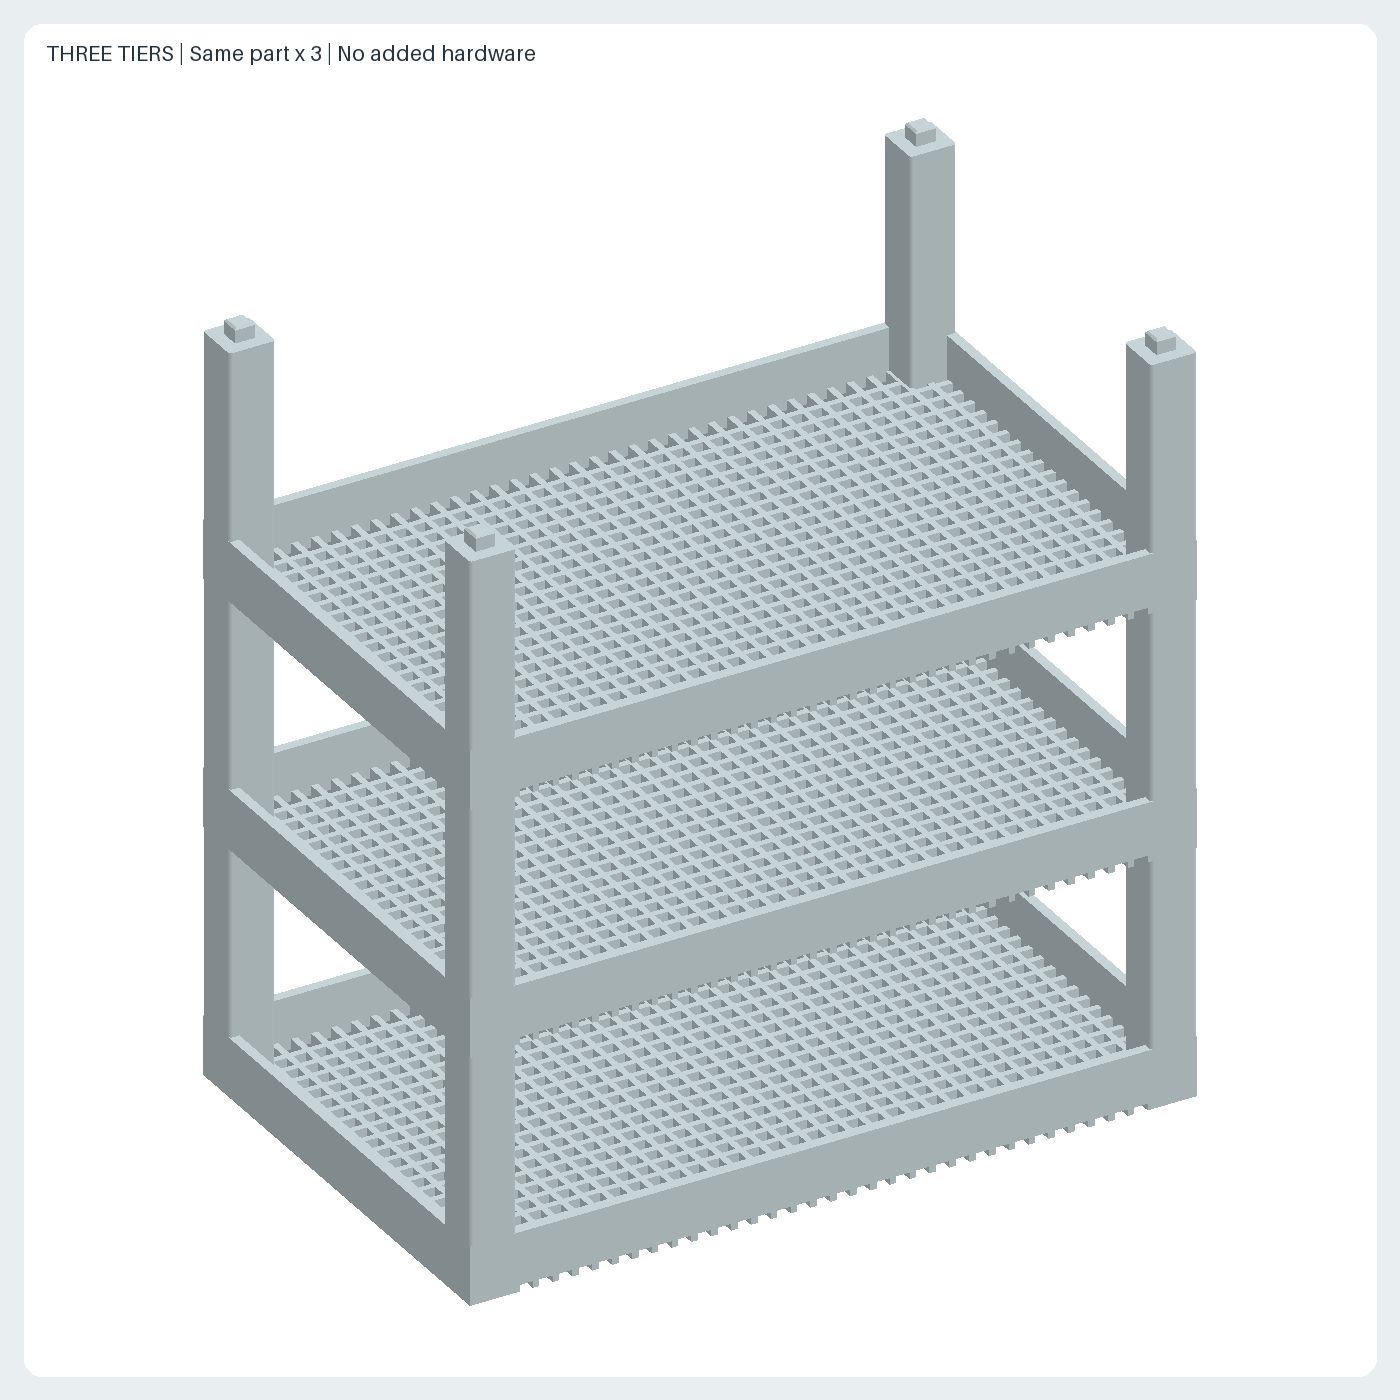
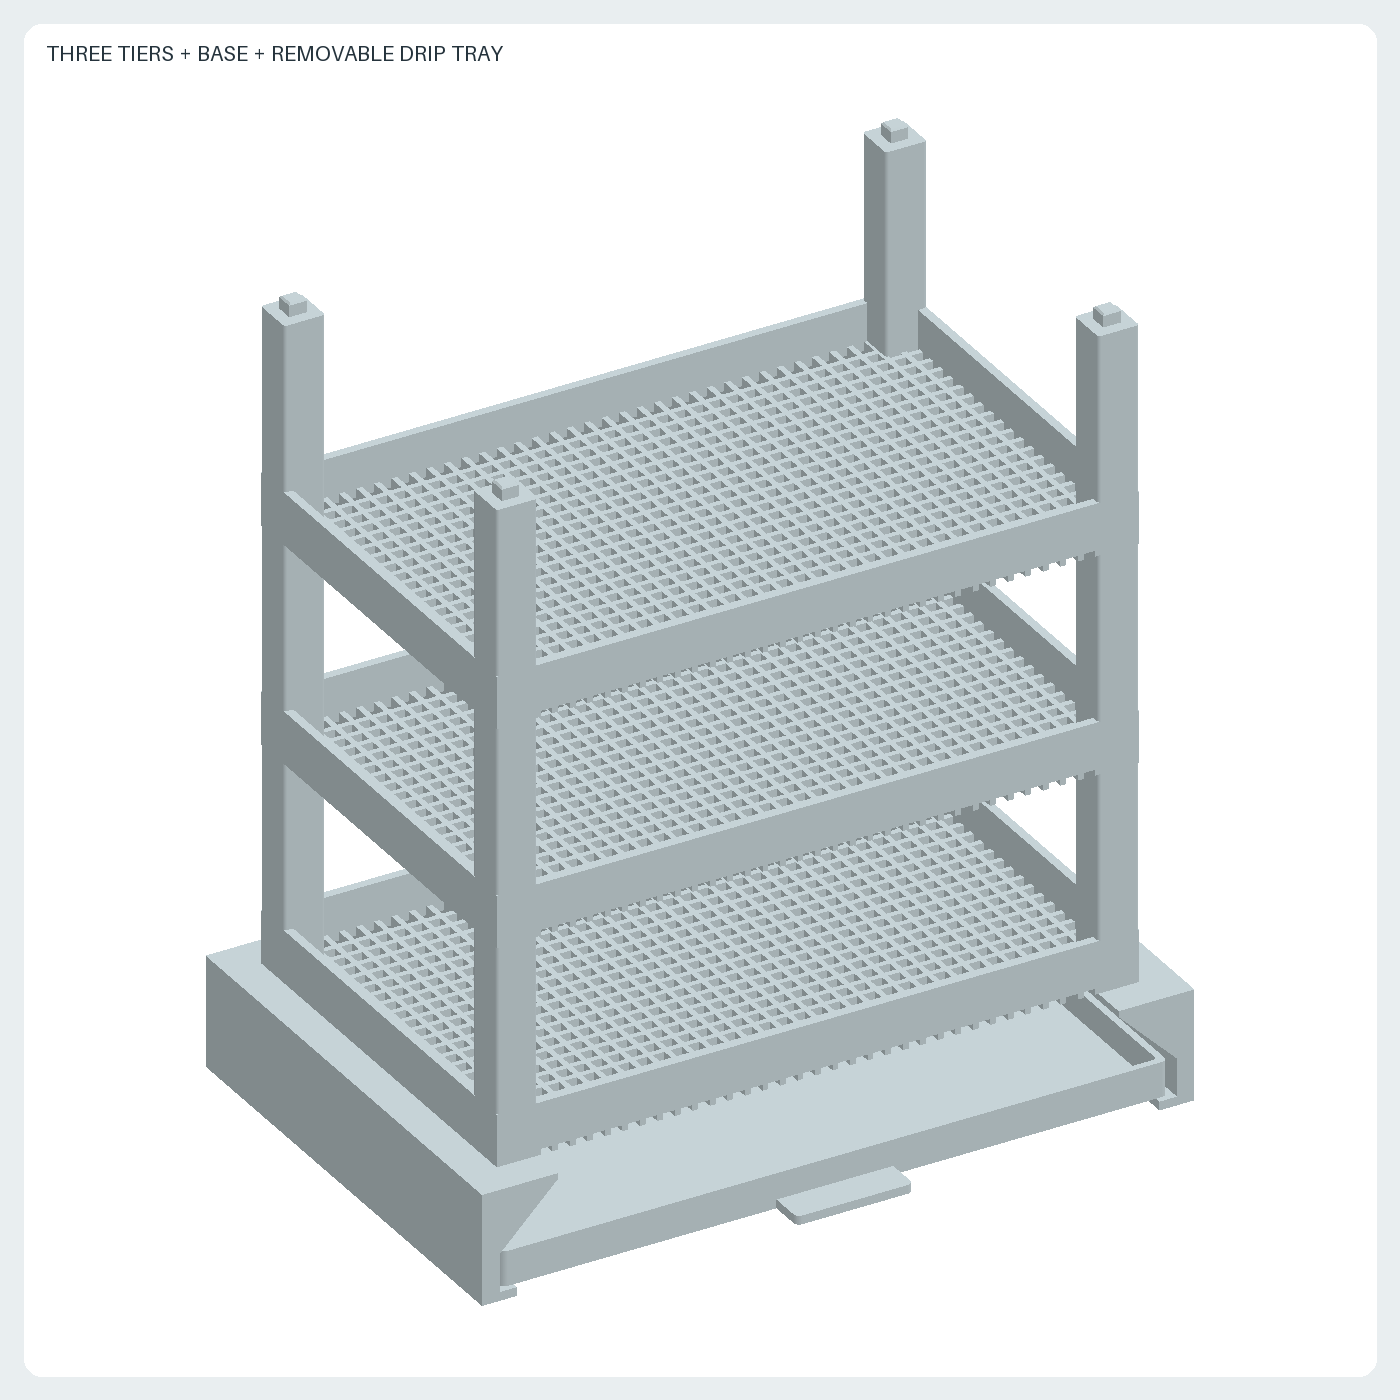
feat: add raised base and removable drip tray

Changed region(s): [[0.1229, 0.0614, 0.86, 0.9521], [0.1229, 0.0307, 0.3686, 0.0614]]

diff --git a/chili-drying-rack/generate.py b/chili-drying-rack/generate.py
@@ -20,6 +20,9 @@ PEG_HEIGHT = 4.5
 SOCKET_WIDTH = 6.8
 SOCKET_DEPTH = 5.0
 POSTS = [(x, y) for x in (-103.0, 103.0) for y in (-63.0, 63.0)]
+BASE_HEIGHT = 38.0
+TRAY_Z = 3.0
+TRAY_Y = -2.0
 
 
 def box(x, y, z, length, width, height):
@@ -96,10 +99,75 @@ def normalize_stl(path):
     path.write_bytes(data)
 
 
+def make_base():
+    # The 45-degree underside grows inward only above the drawer, so the
+    # basket support needs no bridge across the full drawer width.
+    right = (cq.Workplane("XZ", origin=(0, 82, 0))
+             .polyline([(116, 0), (122, 0), (122, 38), (96, 38),
+                        (96, 36), (116, 16)]).close().extrude(164).val())
+    parts = [right, right.mirror("YZ"), box(0, 79, 0, 244, 6, 8)]
+    parts += [box(x, 0, 0, 6, 164, TRAY_Z) for x in (-113, 113)]
+    for x, y in POSTS:
+        parts.append((cq.Workplane("XY", origin=(x, y, BASE_HEIGHT))
+                      .box(PEG_WIDTH, PEG_WIDTH, PEG_HEIGHT,
+                           centered=(True, True, False))
+                      .faces(">Z").edges().chamfer(0.6).val())
+        )
+    return parts[0].fuse(*parts[1:]).clean()
+
+
+def make_tray():
+    outer = (cq.Workplane("XY").box(228, 156, 12, centered=(True, True, False))
+             .edges("|Z").fillet(2.0).val())
+    cavity = (cq.Workplane("XY", origin=(0, 0, 2.4))
+              .box(223.2, 151.2, 12, centered=(True, True, False))
+              .edges("|Z").fillet(1.0).val())
+    grip = (cq.Workplane("XY", origin=(0, -83, 0))
+            .box(40, 14, 3, centered=(True, True, False))
+            .edges("|Z").fillet(2.0).val())
+    return outer.cut(cavity).fuse(grip).clean()
+
+
+def validate_accessories(rack, base, tray):
+    for name, shape, expected in (
+        ("base", base, (244, 164, 42.5)),
+        ("tray", tray, (228, 168, 12)),
+    ):
+        if not shape.isValid() or len(shape.Solids()) != 1:
+            raise ValueError(f"{name} must be one valid solid")
+        bounds = shape.BoundingBox()
+        for actual, target in zip((bounds.xlen, bounds.ylen, bounds.zlen), expected):
+            if abs(actual - target) > 1e-5:
+                raise ValueError(f"{name}: unexpected dimensions")
+    mounted_rack = rack.translate((0, 0, BASE_HEIGHT))
+    mounted_tray = tray.translate((0, TRAY_Y, TRAY_Z))
+    if base.intersect(mounted_rack).Volume() > 1e-6:
+        raise ValueError("Basket does not fit base")
+    # A continuous swept bounding envelope verifies the whole withdrawal path,
+    # including the handle, rather than only a few sample drawer positions.
+    bounds = mounted_tray.BoundingBox()
+    travel = 180.0
+    swept = box((bounds.xmin + bounds.xmax) / 2,
+                (bounds.ymin + bounds.ymax - travel) / 2, bounds.zmin,
+                bounds.xlen, bounds.ylen + travel, bounds.zlen)
+    for obstacle in (base, mounted_rack):
+        if obstacle.intersect(swept).Volume() > 1e-6:
+            raise ValueError("Drawer withdrawal path is obstructed")
+    # The water-holding opening covers the basket's entire vertical footprint.
+    if 223.2 / 2 < LENGTH / 2 or 151.2 / 2 - abs(TRAY_Y) < WIDTH / 2:
+        raise ValueError("Drip tray does not cover basket footprint")
+    if not tray.isInside(cq.Vector(0, 0, 1)) or tray.isInside(cq.Vector(0, 0, 4)):
+        raise ValueError("Tray floor/cavity is invalid")
+
+
 if __name__ == "__main__":
     model = make_rack()
     validate(model)
-    output = Path(__file__).with_name("rack.stl")
-    cq.exporters.export(model, str(output), tolerance=0.08, angularTolerance=0.2)
-    normalize_stl(output)
-    print(f"Basket: {model.Volume():.1f} mm^3; valid solid; stack/feature checks passed")
+    base, tray = make_base(), make_tray()
+    validate_accessories(model, base, tray)
+    for name, shape in (("rack", model), ("base", base), ("drip-tray", tray)):
+        output = Path(__file__).with_name(f"{name}.stl")
+        cq.exporters.export(shape, str(output), tolerance=0.08, angularTolerance=0.2)
+        normalize_stl(output)
+        print(f"{name}: {shape.Volume():.1f} mm^3; valid single solid")
+    print("Stack, base fit, drip coverage and continuous drawer travel checks passed")

diff --git a/chili-drying-rack/render.py b/chili-drying-rack/render.py
@@ -6,7 +6,7 @@ from pathlib import Path
 import numpy as np
 from PIL import Image, ImageDraw
 
-from generate import STACK_PITCH
+from generate import BASE_HEIGHT, STACK_PITCH, TRAY_Y, TRAY_Z
 
 
 DIRECTORY = Path(__file__).resolve().parent
@@ -44,12 +44,45 @@ def main():
                        "STACKABLE CHILI BASKET | One printed part", padding=65)
     preview.save(DIRECTORY / "preview.png", optimize=True)
     assembly = Image.new("RGB", (1400, 1400), "#e9eef0")
-    stacked = np.concatenate([vertices + np.array([0, 0, STACK_PITCH * i])
-                              for i in range(3)])
-    renderer.draw_view(assembly, stacked, np.tile(normals, (3, 1)),
+    base_v, base_n = renderer.read_binary_stl(DIRECTORY / "base.stl")
+    tray_v, tray_n = renderer.read_binary_stl(DIRECTORY / "drip-tray.stl")
+    stacked = np.concatenate(
+        [vertices + np.array([0, 0, BASE_HEIGHT + STACK_PITCH * i]) for i in range(3)]
+        + [base_v, tray_v + np.array([0, TRAY_Y, TRAY_Z])])
+    all_normals = np.concatenate([np.tile(normals, (3, 1)), base_n, tray_n])
+    renderer.draw_view(assembly, stacked, all_normals,
                        (24, 24, 1352, 1352), u, v, depth,
-                       "THREE TIERS | Same part x 3 | No added hardware", padding=70)
+                       "THREE TIERS + BASE + REMOVABLE DRIP TRAY", padding=70)
     assembly.save(DIRECTORY / "assembly.png", optimize=True)
+    drawer = Image.new("RGB", (1400, 1100), "#e9eef0")
+    pulled = np.concatenate([vertices + np.array([0, 0, BASE_HEIGHT]), base_v,
+                             tray_v + np.array([0, TRAY_Y - 85, TRAY_Z])])
+    renderer.draw_view(drawer, pulled, np.concatenate([normals, base_n, tray_n]),
+                       (24, 24, 1352, 1052), u, v, depth,
+                       "DRIP TRAY | Pull forward to empty | 23 mm air gap", padding=70)
+    drawer.save(DIRECTORY / "drawer.png", optimize=True)
+    accessory = Image.new("RGB", (1600, 1180), "#e9eef0")
+    for mesh, face_normals, region, u2, v2, d2, label in (
+        (base_v, base_n, (24, 24, 764, 480), (1, 0, 0), (0, 1, 0), (0, 0, 1),
+         "BASE TOP | 244 x 164 mm"),
+        (base_v, base_n, (24, 528, 764, 300), (1, 0, 0), (0, 0, 1), (0, -1, 0),
+         "BASE FRONT | Height 42.5 mm"),
+        (tray_v, tray_n, (812, 24, 764, 480), (1, 0, 0), (0, 1, 0), (0, 0, 1),
+         "TRAY TOP | 228 x 168 mm incl. grip"),
+        (tray_v, tray_n, (812, 528, 764, 300), (0, 1, 0), (0, 0, 1), (1, 0, 0),
+         "TRAY END | Height 12 mm"),
+    ):
+        renderer.draw_view(accessory, mesh, face_normals, region, u2, v2, d2, label)
+    draw = ImageDraw.Draw(accessory)
+    for index, line in enumerate((
+        "Base: basket seat Z=38 | Tray rails Z=3 | Inward supports: 45 degrees",
+        "Tray body: 228 x 156 x 12 mm | Floor / walls: 2.4 mm | No drain holes",
+        "Installed tray center Y=-2 | Basket bottom to tray rim: 23 mm",
+        "3 tiers with base: 267.5 mm | 4 tiers with base: 342.5 mm",
+        "Fit/withdrawal checked in CAD. Printed watertightness and load capacity untested.",
+    )):
+        draw.text((40, 868 + index * 48), line, fill="#25333c", font=renderer.font(23))
+    accessory.save(DIRECTORY / "accessories.png", optimize=True)
 
 
 if __name__ == "__main__":

diff --git a/scripts/generate_all.py b/scripts/generate_all.py
@@ -10,7 +10,8 @@ import sys
 ROOT = Path(__file__).resolve().parents[1]
 MODELS = {
     "mi-vacuum-cleaner-mini": ("holder.stl", "views.png", "preview.png"),
-    "chili-drying-rack": ("rack.stl", "views.png", "preview.png", "assembly.png"),
+    "chili-drying-rack": ("rack.stl", "base.stl", "drip-tray.stl", "views.png",
+                         "preview.png", "assembly.png", "drawer.png", "accessories.png"),
 }
 OUTPUTS = [ROOT / model / name for model, names in MODELS.items() for name in names]
 

diff --git a/chili-drying-rack/README.md b/chili-drying-rack/README.md
@@ -2,18 +2,21 @@
 
 受けかご・脚を兼ねる底面リブ・四隅の支柱・連結用の突起と穴を、一つの
 印刷部品にまとめています。同じ `rack.stl` を必要数印刷し、積み重ねて使います。
-紐、ネジ、市販クリップ、別体の連結部品は不要です。
+最下段には `base.stl` の台座と、前から引き出せる `drip-tray.stl` の水受けを
+各1個追加します。すべて印刷部品で、紐・ネジ・市販クリップは不要です。
 
 ![3段の組立状態](assembly.png)
 ![単体の斜視図](preview.png)
 ![寸法入り三面図](views.png)
+![水受けを引き出した状態](drawer.png)
+![台座と水受けの寸法図](accessories.png)
 
 ## 仕様・構成
 
 | 項目 | 設計値 |
 | --- | --- |
 | 単体外形 | 220 × 140 × 79.5mm |
-| 3段 / 4段の高さ | 229.5mm / 304.5mm |
+| 3段 / 4段の高さ | 台座込み267.5mm / 342.5mm（かごのみ229.5mm / 304.5mm） |
 | 積み重ねピッチ | 75mm |
 | 目安容量 | 長さ100mm以下・幅約20mm以下の実を、1段に約8本 |
 | 段数と本数 | 3段で約24本、4段で約32本。重なり具合に合わせて減らす |
@@ -30,6 +33,36 @@
 実を一層に並べる方式です。受けかごが乾燥面を兼ね、個別の吊り下げ保持は
 ありません。網目より細い実や破片・種までは保持できません。
 容量は実測ではなく配置の目安です。実同士が触れないように並べてください。
+
+## 引き出し式の水受け
+
+| 項目 | 設計値 |
+| --- | --- |
+| 台座 | 244 × 164 × 42.5mm（上の位置決め突起を含む） |
+| かごの支持高さ | 床面から38mm |
+| トレー本体 | 228 × 156 × 12mm |
+| トレー外形 | 取っ手込み228 × 168 × 12mm |
+| トレーの底・壁 | 厚さ2.4mm、排水穴なし |
+| トレー内側開口 | 223.2 × 151.2mm、角R1mm |
+| トレー支持高さ | 床面から3mm |
+| 通風空間 | トレー縁の上端からかご底面まで23mm |
+| 全体の設置範囲 | 幅244 × 奥行174mm（取っ手を含む） |
+
+トレーを台座の左右の下側レールに載せ、奥の壁に当たるまで差し込みます。
+かごを台座上の四つの突起に合わせて載せ、その上に残りのかごを積みます。
+トレーだけを前へ引き出せるので、かごを動かさずに水を捨てられます。
+水をこぼさないよう水平に引き出してください。前方には約180mmの取り出し空間が必要です。
+
+台座は底を下に、トレーは開口を上にして印刷します。台座の内側の支持部は
+45度の斜面で張り出す形状で、全幅を渡すブリッジはありません。
+トレーは0.2mm積層なら底面12層相当です。水受けのため、底面が全層ソリッドに
+なるよう上下層数を各6層以上にし、スライサーで確認してください。
+トレー本体は底から印刷でき、サポート不要を想定しています。
+
+印刷品の水密性は保証していません。使用前にシンクなどで少量の水を入れ、
+底や壁から漏れないことを確認してください。漏れる場合は水受けとして使用せず、
+印刷条件を見直してください。溜まった水はこまめに捨て、トレーを乾かします。
+唐辛子は干す前に表面の水分を拭き取り、トレーに水を溜め続けない使い方とします。
 
 ## 印刷と組み立て
 
@@ -63,9 +96,12 @@
 ## ファイルと再生成
 
 - `rack.stl`: 置き型かご単体。旧版の紐吊りラックを置き換えています。
+- `base.stl`: かごを38mm持ち上げ、水受けのレールを備える台座。1個使用。
+- `drip-tray.stl`: 水受けトレー。1個使用。
 - `generate.py`: CadQueryモデル、形状・積み重ね干渉の検査。
 - `render.py`: 実際のSTLから三面図・単体斜視図・3段組立図を生成。
-- `views.png`, `preview.png`, `assembly.png`: 図面とレンダリング。
+- `views.png`, `preview.png`, `assembly.png`: かごの図面と台座付き組立図。
+- `drawer.png`, `accessories.png`: 引き出し状態と台座・水受けの寸法図。
 
 リポジトリ直下で、ルートREADMEに記載した固定環境を使います。
 
@@ -76,14 +112,16 @@ nix develop --command .venv/bin/python scripts/generate_all.py --check
 
 生成時に単一ソリッド、外形寸法、代表位置の網目と通風経路、支柱の突起と
 受け穴、2段を積み重ねた際の体積干渉がないことを検査します。
+台座・トレーも単一ソリッドと外形を検査し、台座とかごの接続、水受けによる
+かご投影範囲の包含、トレー引き出し全経路の干渉を検査します。
 STLは計算誤差の微小な揺れを小数6桁に正規化し、全PNGとともに再生成一致を
-CIで検査します。実機印刷、接続部の公差、荷重、転倒、屋外耐久は未検証です。
+CIで検査します。実機印刷、接続部の公差、荷重、転倒、水密性、屋外耐久は未検証です。
 許容荷重は未設定です。
 
 ## 設計の出所・ライセンス
 
 2026-10-02の利用者指定（PLA、20〜30本、複数印刷可、実の長さ100mm以下、
-受けかご、連結、追加部材不要、置き型）から新規設計しました。
+受けかご、連結、市販の追加部材不要、置き型、取り外せる水受け）から新規設計しました。
 他者のCADモデル・図面・製品寸法は使用していません。寸法は設計値です。
 描画は本リポジトリの既存STLレンダラーを再利用します。
 ライセンスはリポジトリと同じCC BY-SA 4.0です。

diff --git a/README.md b/README.md
@@ -5,7 +5,7 @@
 | Design | Files | Notes |
 | --- | --- | --- |
 | [Mi Vacuum Cleaner Mini holder](mi-vacuum-cleaner-mini/README.md) | STL, CadQuery source, three views and preview | Horizontal cradle with nozzle and charging-port access |
-| [Stackable chili drying basket](chili-drying-rack/README.md) | STL, CadQuery source, three views and assembly preview | One-piece PLA basket; no added hardware; 220 × 140 × 79.5 mm |
+| [Stackable chili drying basket](chili-drying-rack/README.md) | STL, CadQuery source, dimensioned views and assembly preview | One-piece baskets, raised base and removable drip tray; all printed |
 
 ## Reproducing the outputs
 
